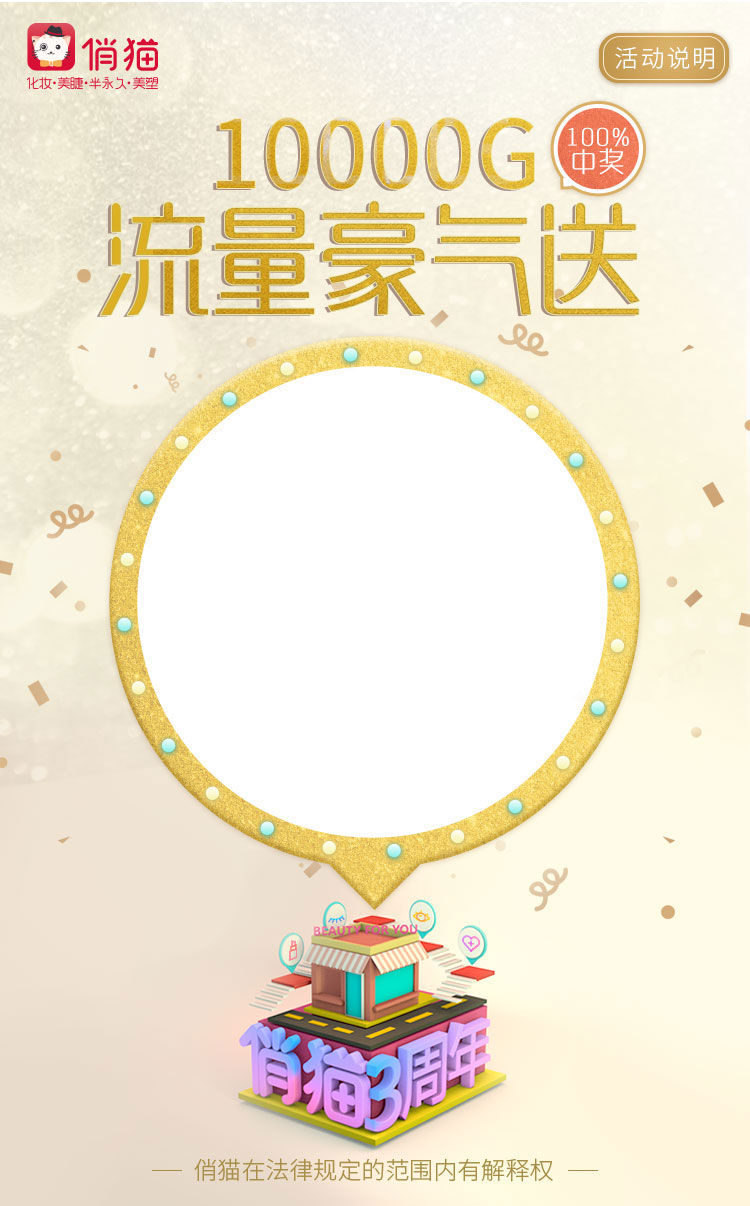
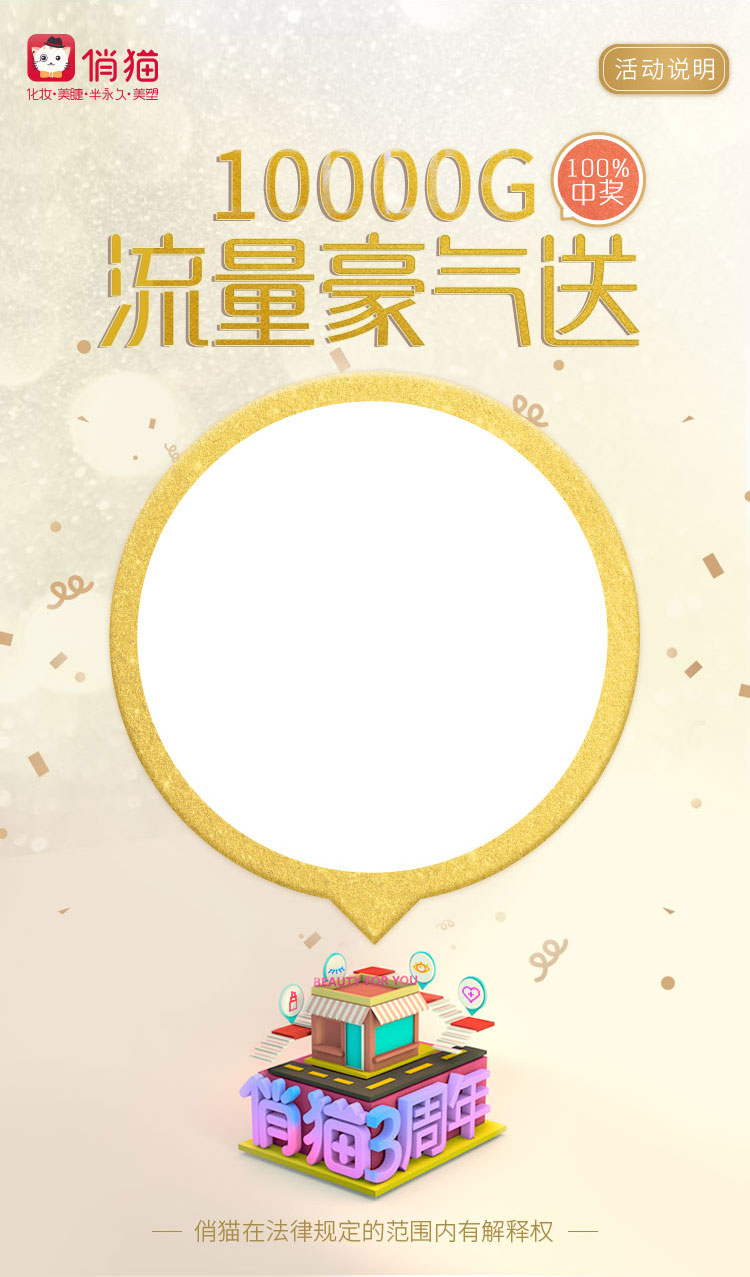
优化三周年专题

diff --git a/src/page/topic/luckDraw_2017/luckdraw1230.vue b/src/page/topic/luckDraw_2017/luckdraw1230.vue
@@ -93,8 +93,8 @@ export default {
       timer: null, // 定时器
 
       shareData: { // APP分享
-        title: '俏猫转盘抽奖送流量',
-        desc: '女生形象大赛，女神们都给我“转”起来~',
+        title: '毫无套路，100%中奖！',
+        desc: '俏猫三周年·10000G流量豪气送~',
         link: 'http://mm.qiaocat.com/topic-luckdraw-1230?plid=96',
         imgUrl: 'http://mm.qiaocat.com/static/topic/luckDraw_2017/luckDraw_1230/share.jpg'
       },
@@ -288,8 +288,8 @@ export default {
       let _this = this;
       wx.ready(function() {
         _this.share_setup(
-          "俏猫转盘抽奖送流量",
-          "女生形象大赛，女神们都给我“转”起来~",
+          "毫无套路，100%中奖！",
+          "俏猫三周年·10000G流量豪气送~",
           "http://mm.qiaocat.com/topic-luckdraw-1230?plid=96",
           "http://mm.qiaocat.com/static/topic/luckDraw_2017/luckDraw_1230/share.jpg",
         );
@@ -398,7 +398,8 @@ export default {
         }
       }
       .explain-box {
-        margin: 28% auto 0;
+        margin: 9rem auto 0;
+        max-width: 37.5rem;
       }
     }
     img {
@@ -419,7 +420,7 @@ export default {
     .wheel-box {
       position: absolute;
       left: 0;
-      top: 30.5%;
+      top: 31.4%;
       width: 100%;
       font-size: 0;
       .wheel {
@@ -449,7 +450,7 @@ export default {
           span {
             display: block;
             margin-top: 20%;
-            font-size: 1.1rem;
+            font-size: 1.3rem;
           }
 
           @for $i from 0 through 7 {
